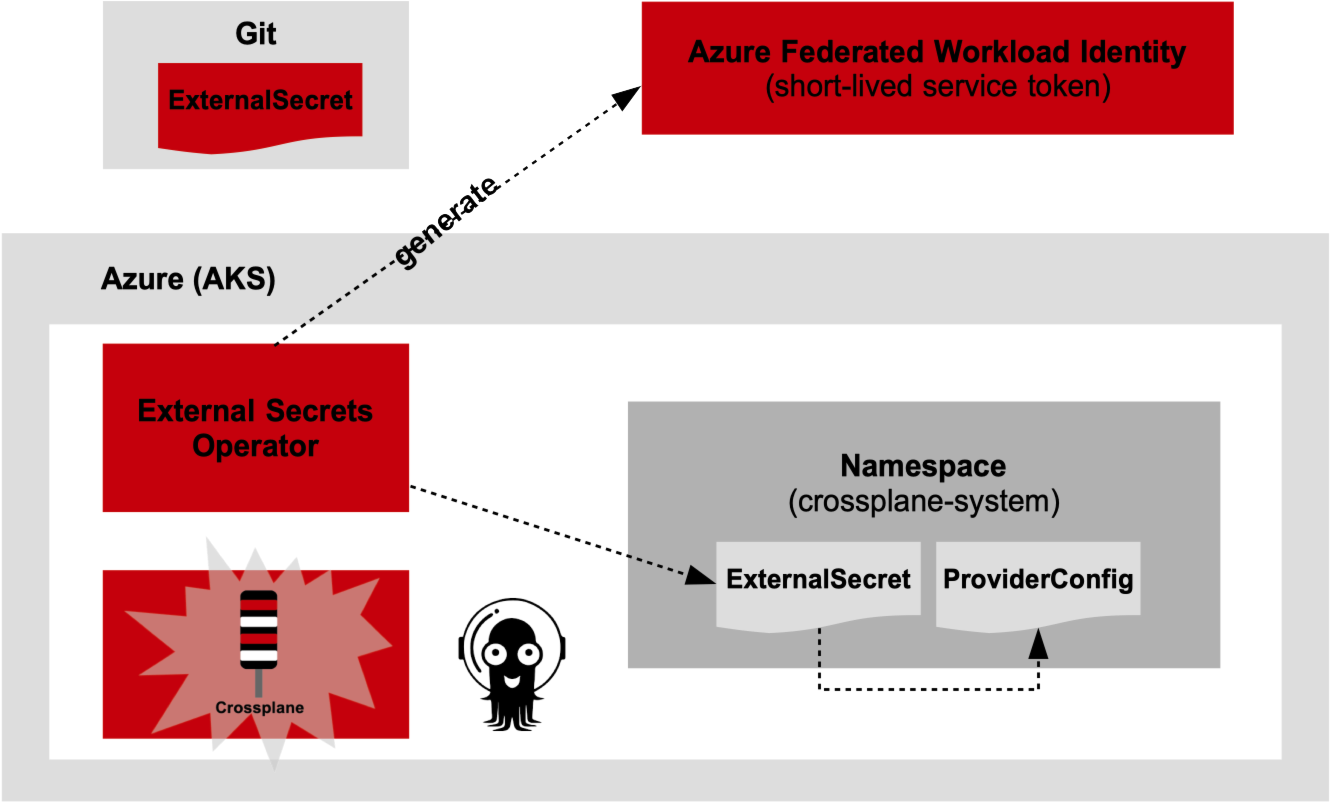
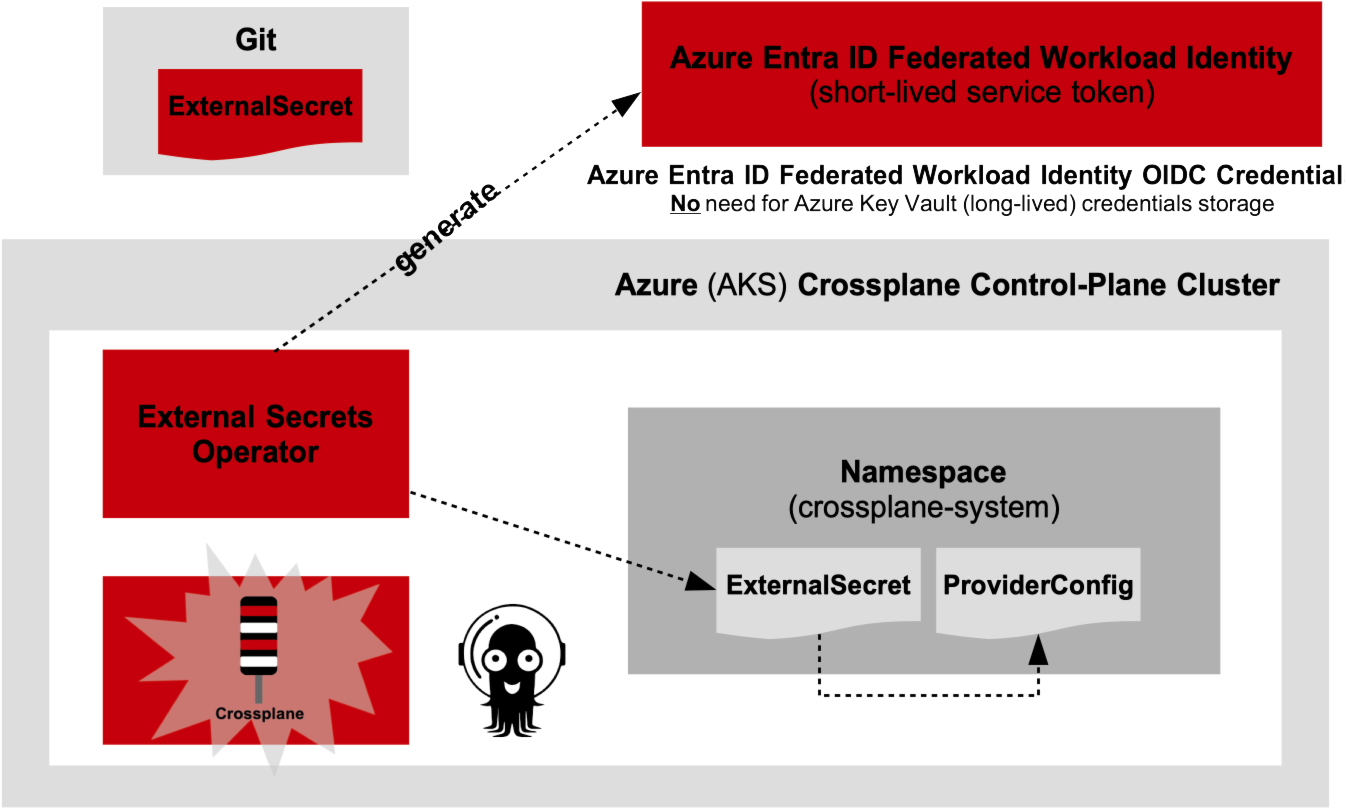
updated graphics oidc identity workflow

diff --git a/README.md b/README.md
@@ -347,7 +347,7 @@ Crossplane will reference a Kubernetes ExternalSecret resource that will generat
 
 
 
-## Crossplane API Anti-Patterns (Non-GitOps w/out ArgoCD)
+## Crossplane API Control-Plane Cluster Configuration (Non-GitOps w/out ArgoCD)
 
 
 
